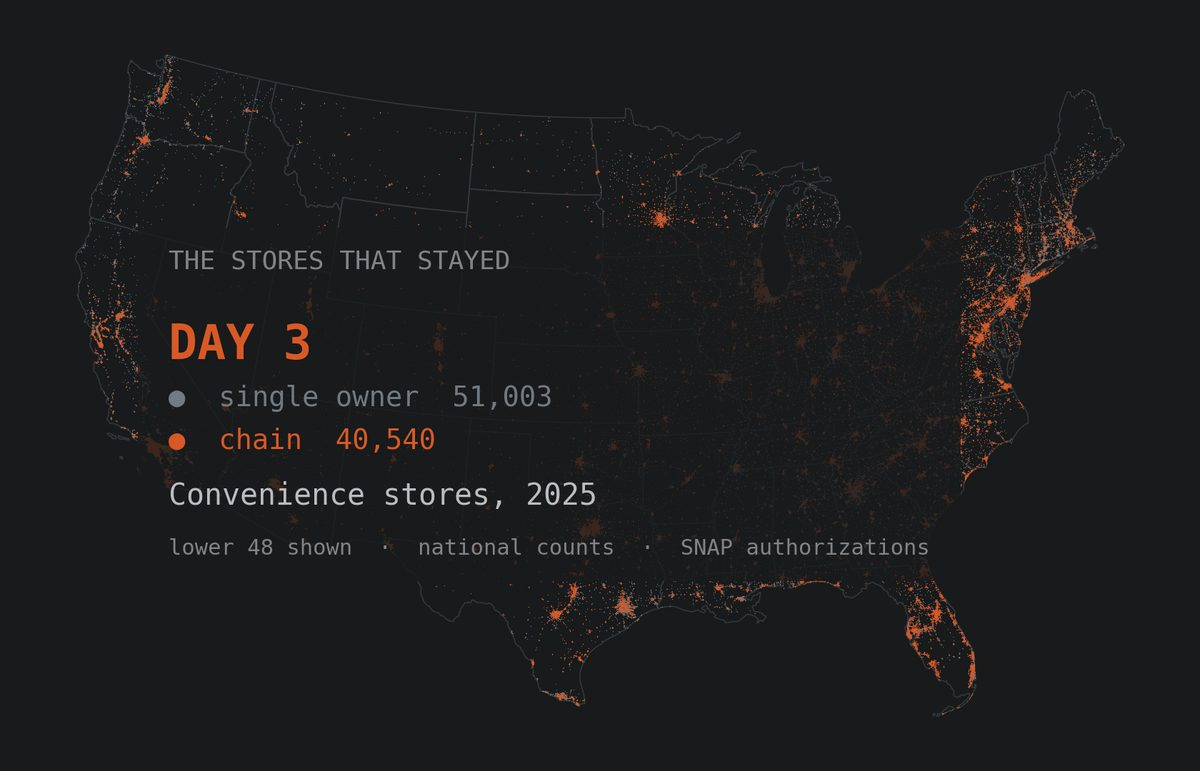
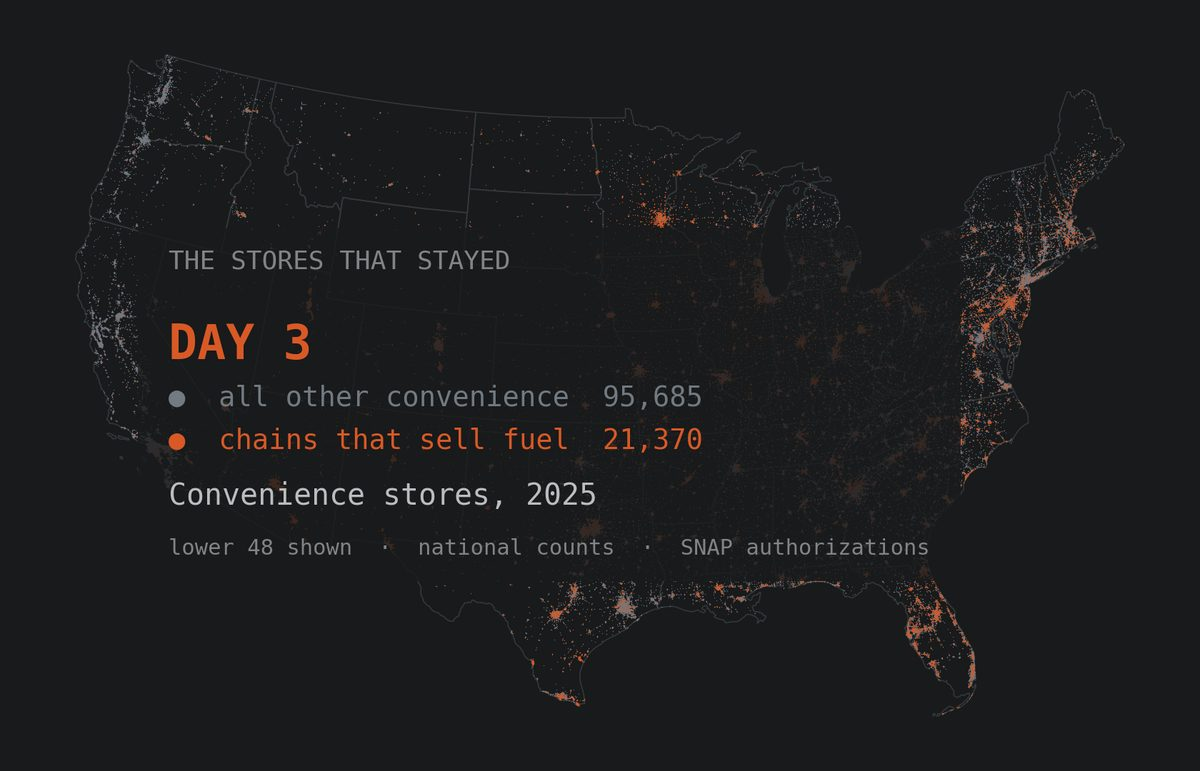
Day3 post updates.

diff --git a/src/analysis/build_post6.py b/src/analysis/build_post6.py
@@ -79,10 +79,10 @@ def main():
         title="A chain store stays. A single-owner store usually does not.",
         subtitle="share of 2008-2012 stores still authorized in 2025")
 
-    html = f"""{HEAD}<title>Convenience stores thrived, but with an advantage few others had</title>
+    html = f"""{HEAD}<title>Convenience stores and the advantage hiding in plain sight</title>
 <style>{CSS}</style>
 <main>
-<h1>Convenience stores thrived, but with an advantage few others had</h1>
+<h1>Convenience stores and the advantage hiding in plain sight</h1>
 <p class="sub">SNAP-authorized retailers, 2006–2025 · EIA weekly gasoline prices · retail fuel margins
 from Murphy USA and Casey's 10-K filings · {conv_total:,} convenience stores in the file</p>
 
@@ -163,7 +163,10 @@ discounted.</p>
 
 <p>What nobody expected is that fuel margins stayed there. Customers came back. Margins did not fall. Casey's now tells its investors it expects them to &ldquo;remain elevated from historical levels for the foreseeable future&rdquo;. Murphy is still selling about 5% fewer gallons per store than in 2019 — and earning twice as much on each one.</p>
 
-<h2>The format thrives, but is everyone realizing the benefit?</h2>
+<p>So, post-COVID fuel margins are the advantage we have been teasing throughout this post. File
+that knowledge away as we turn back to the topic at hand — SNAP authorizations.</p>
+
+<h2>The format thrives, but are all owners realizing the benefit?</h2>
 
 <p>Everything so far has been about the chains. What about the much larger group of single-owner stores?</p>
 
@@ -230,7 +233,7 @@ not seen since 1973.</p>
 
 <p>Another lesson in the law of unintended consequences.</p>
 
-<p><strong>Tomorrow: we turn our attention to the larger store formats.</strong></p>
+<p><strong>Next week: we turn our attention to the larger store formats.</strong></p>
 
 <div class="caveat">
 <h3>Limits</h3>

diff --git a/src/analysis/hero.py b/src/analysis/hero.py
@@ -249,13 +249,21 @@ def main():
                "Small grocery")
 
     if want is None or 3 in want:
-        chain, nc = points(con, "p.format = 'Convenience Store' AND p.ownership = 'chain'", 2025)
-        indie, ni = points(con, "p.format = 'Convenience Store' AND p.ownership = 'independent'", 2025)
+        # Post 6's own brand-based split, so the hero keys the number the piece
+        # argues from: the fuel-forward chains against the rest of the category.
+        # The earlier ownership-based split put a "single owner" count on the
+        # hero that differed from the post's segment of the same name.
+        from analysis.post6_fuel import FUEL_FORWARD
+        ff = ",".join("'" + b.replace("'", "''") + "'" for b in FUEL_FORWARD)
+        fuel, nf = points(con, f"p.format = 'Convenience Store' AND p.brand IN ({ff})", 2025)
+        rest, nr = points(
+            con, "p.format = 'Convenience Store' AND (p.brand IS NULL "
+                 f"OR p.brand NOT IN ({ff}))", 2025)
         render(OUT / "day-3.png", 3,
-               [{"xy": indie, "color": MUTED, "size": 0.9, "alpha": 0.85,
-                 "label": f"single owner  {ni:,}"},
-                {"xy": chain, "color": HUE[3], "size": 0.9,
-                 "label": f"chain  {nc:,}"}],
+               [{"xy": rest, "color": MUTED, "size": 0.9, "alpha": 0.85,
+                 "label": f"all other convenience  {nr:,}"},
+                {"xy": fuel, "color": HUE[3], "size": 0.9,
+                 "label": f"chains that sell fuel  {nf:,}"}],
                "Convenience stores, 2025")
 
     if want is None or 4 in want:

diff --git a/reports/day3-page-meta.md b/reports/day3-page-meta.md
@@ -15,13 +15,13 @@ numbers quoted in the alt text below.
 ## 1. Page title (H1)
 
 ```
-Convenience stores thrived, but with an advantage few others had
+Convenience stores and the advantage hiding in plain sight
 ```
 
 ## 2. Page subtitle
 
 ```
-The convenience store looks like the format that beat the odds — huge, growing, and mostly independent. Split it open and the winners are the fuel-selling chains, riding a pump margin that doubled after 2020 and never came back down.
+The convenience store looks like the format that beat the odds — more stores than any other in SNAP, still growing, and mostly independent. Split it open and the winners are the fuel-selling chains, riding a pump margin that doubled after 2020 and never came back down.
 ```
 
 ## 3. Hero image
@@ -34,26 +34,25 @@ The convenience store looks like the format that beat the odds — huge, growing
 **Hero alt text:**
 
 ```
-Dot map of the lower 48 states showing SNAP-authorized convenience stores in 2025, with national counts: 40,540 chain stores in orange over 51,003 single-owner stores in grey, dense along the coasts, Texas and the Southeast. Text on the map reads: The Stores That Stayed. Day 3. Convenience stores, 2025.
+Dot map of the lower 48 states showing SNAP-authorized convenience stores in 2025, with national counts: 21,370 stores belonging to chains that sell fuel in orange, over 95,685 other convenience stores in grey. Text on the map reads: The Stores That Stayed. Day 3. Convenience stores, 2025.
 ```
 
 Short version if the field is tight:
 
 ```
-Dot map of SNAP-authorized convenience stores in 2025: 40,540 chain stores in orange, 51,003 single-owner stores in grey.
+Dot map of SNAP-authorized convenience stores in 2025: fuel-selling chains, 21,370 in orange, against 95,685 others in grey.
 ```
 
-Note: the hero's chain/single-owner split is by inferred ownership and leaves
-~25,000 unclassifiable stores undrawn; the post's own segments (fuel chains,
-other chains, single-owner) are brand-based. The two counts are not meant to
-reconcile with the body text.
+Note: the hero uses the post's own brand-based split, so its 21,370 is the same
+fuel-chain count the body argues from, and 95,685 is the rest of the category
+(other chains plus single-owner stores).
 
 ## 4. Meta title
 
-60 characters — at the truncation edge but should hold.
+58 characters — will not truncate.
 
 ```
-Convenience Stores Thrived, With an Advantage Few Others Had
+Convenience Stores and the Advantage Hiding in Plain Sight
 ```
 
 ## 5. Meta description
@@ -76,7 +75,7 @@ convenience stores, gas stations, fuel margins, SNAP retailers, Wawa, Sheetz, Ca
 {
   "@context": "https://schema.org",
   "@type": "Article",
-  "headline": "Convenience stores thrived, but with an advantage few others had",
+  "headline": "Convenience stores and the advantage hiding in plain sight",
   "description": "Fuel-selling convenience chains grew 258% and kept 78.7% of their stores, powered by fuel margins that doubled after 2020 and never came back down.",
   "image": "[[PRISMIC HERO URL]]?auto=format,compress",
   "datePublished": "[[YYYY-MM-DDTHH:MM:SS-04:00]]",

diff --git a/reports/day0-page-meta.md b/reports/day0-page-meta.md
@@ -128,7 +128,7 @@ Series card for Day 2 — Dollar store domination. Key figure: up 307% since 200
 ### `images/day-3.png` — Day 3 card
 
 ```
-Series card for Day 3 — Convenience stores thrived, but with an advantage few others had. Key figure: 14.2% of single-owner convenience stores lasted thirteen years, against 78.7% of the fuel-selling chains.
+Series card for Day 3 — Convenience stores and the advantage hiding in plain sight. Key figure: 14.2% of single-owner convenience stores lasted thirteen years, against 78.7% of the fuel-selling chains.
 ```
 
 ### `images/day-4.png` — Day 4 card
